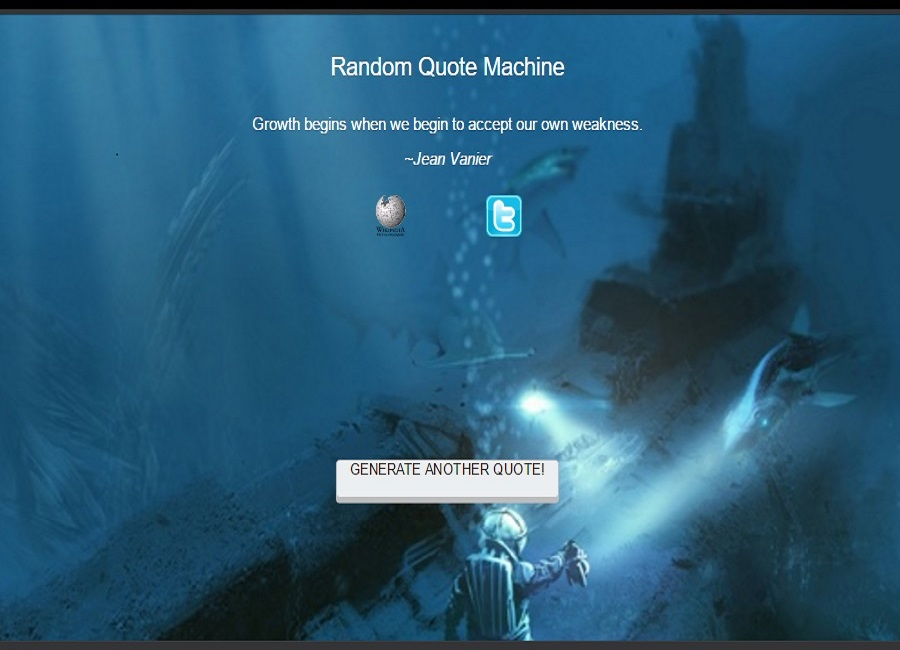
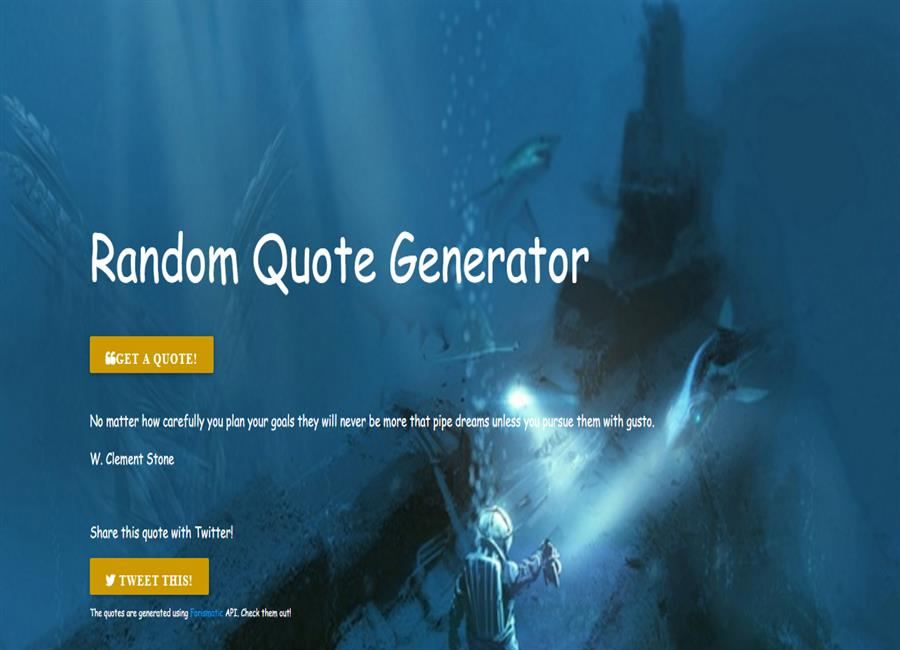
icansleep

diff --git a/RANDOMQUOTE/randomquote.html b/RANDOMQUOTE/randomquote.html
@@ -16,8 +16,8 @@
     <title>DmnSo RandomQuote</title>
 
     <!-- Bootstrap Core CSS -->
-    <link href="//maxcdn.bootstrapcdn.com/bootstrap/3.3.4/css/bootstrap.min.css" rel="stylesheet" />
-<link href="//cdnjs.cloudflare.com/ajax/libs/animate.css/3.2.3/animate.min.css" rel="stylesheet" />
+    <link href="//maxcdn.bootstrapcdn.com/bootstrap/3.3.5/css/bootstrap.min.css" rel="stylesheet" />
+<link href="http://netdna.bootstrapcdn.com/font-awesome/4.4.0/css/font-awesome.css" rel="stylesheet" />
 
     <!-- Theme CSS -->
     <link href="randomquote.css" rel="stylesheet">
@@ -28,23 +28,32 @@
 
 
 <body>
-  <div class='container-fluid'>
-    <div class='jumbotron' id="quote">
-      <h1>Random Quote Machine</h1>
-      <div class='box'>
-        <p class='quote'></p>
-        <i><p class='author'></p></i>
+  <section>
+    <div class="container-fluid">
+      <div class="col-md-12 text-center">
+        <h1 class="heading">Random Quote Generator</h1>
+
+        <button id="fetch" class="btn btn-primary fa fa-quote-left">Get a Quote!</button>
+        <div class="quoteArea">
+          <p><span class='Quote'></span></p>
+          <p><span class="Author"></span></p>
+        </div>
+
+
+        <p>Share this quote with Twitter!</p>
+        <a class="twitter-share" href="https://twitter.com/intent/tweet">
+          <button id="tweet" class="btn btn-primary fa fa-twitter"> Tweet this!</button>
+        </a>
       </div>
-      <div>
-        <button class="btn btn-primary btn-lg" id="generator">Generate Quote</button>
-      </div>
-      <p></p>
+
+      <p class="paragraph">The quotes are generated using <a href="http://forismatic.com/en/">Forismatic</a> API. Check them out!</p>
     </div>
-  </div>s
+    <section>
 
 <script src="//cdnjs.cloudflare.com/ajax/libs/jquery/2.1.3/jquery.min.js"></script>
 <script src="https://code.jquery.com/jquery-2.2.1.min.js"></script>
 <script src="randomquote.js"> </script>
 
+</body>
 
 </html>

diff --git a/RANDOMQUOTE/randomquote.js b/RANDOMQUOTE/randomquote.js
@@ -1,21 +1,22 @@
-$(document).ready(function() {
-  $('.box').hide();
-  $('#generator').click(function() {
-    $('.box').hide();
-    $('.quote').text("");
-    $('.author').text("");
-    $.ajax({
-      url: 'https://andruxnet-random-famous-quotes.p.mashape.com/',
-      type: "GET",
-      dataType: 'json',
-      success: function(data) {
-        $('.quote').text('"' + data.quote + '"');
-        $('.author').text('--' + data.author);
-        $('.box').addClass('animated fadeInLeft').show();
-      },
-      beforeSend: function(xhr) {
-        xhr.setRequestHeader("X-Mashape-Authorization", "k0yyUeZkPpmshDLnY9BD8bFhgm5mp15QiNXjsncA14OFYnCyOH")
-      }
-    })
-  })
+// Random Quote Generator
+
+var url = "http://api.forismatic.com/api/1.0/?method=getQuote&key=457653&format=jsonp&lang=en&jsonp=?";
+
+var fetchQuote = function(data){
+    if(data.quoteAuthor == ''){
+    data.quoteAuthor = 'Unknown Author';
+  }
+  $(".Author").text(data.quoteAuthor);
+  $(".Quote").text(data.quoteText);
+
+  var tweet = 'https://twitter.com/intent/tweet?text=' + data.quoteText + ' ' + data.quoteAuthor;
+
+  $(".twitter-share").attr("href", tweet);
+}
+$(document).ready(function(){
+   $.getJSON(url, fetchQuote, 'jsonp');
+});
+
+$("#fetch").click(function(){
+   $.getJSON(url, fetchQuote, 'jsonp')
 });

diff --git a/RANDOMQUOTE/randomquote.css b/RANDOMQUOTE/randomquote.css
@@ -1,11 +1,3 @@
-#quote {
-  text-align: center;
-}
-
-h1 {
-  color: white;
-}
-
 body
     {
     width: 100%;
@@ -20,22 +12,45 @@ body
   flex-direction: column;
 }
 
-.jumbotron {
-  width: 100%;
-  height: 100%;
-  position: absolute;
-  top: 0px;
-  left: 0px;
-  background-position: 50% 0%!important;
+.container-fluid{
+  font-family: cursive, sans-serif;
+  margin-left: 10%;
+  margin-right: 10%;
+  padding-top: 200px;
 }
 
-.box {
-  margin-bottom: 15px;
-  background-color: white;
-  padding-top: 10px;
-  border: 1px solid black;
-  border-radius: 25px;
-  -webkit-box-shadow: -5px 10px 5px 0px rgba(0, 0, 0, 0.75);
-  -moz-box-shadow: -5px 10px 5px 0px rgba(0, 0, 0, 0.75);
-  box-shadow: -5px 10px 5px 0px rgba(0, 0, 0, 0.75);
+.heading{
+ padding-bottom: 20px;
+}
+
+.paragraph{
+  font-size: 10px;
+  padding-bottom: 20px;
+}
+
+.quoteArea{
+  padding-bottom: 20px;
+  padding-top: 20px;
+}
+
+.btn {
+    padding: 14px 24px;
+    border: 0 none;
+    font-weight: 700;
+    letter-spacing: 1px;
+    text-transform: uppercase;
+}
+
+.btn:focus, .btn:active:focus, .btn.active:focus {
+    outline: 0 none;
+}
+
+.btn-primary {
+    background: #cc9900;
+    color: #ffffff;
+}
+
+.btn-primary:active, .btn-primary.active {
+    background: #007299;
+    box-shadow: none;
 }

diff --git a/index.html b/index.html
@@ -113,7 +113,7 @@
                                 Random Quote Generator
                             </div>
                         </div>
-                        <img src="img/portfolio/randomgener.png" class="img-responsive" alt="">
+                        <img src="img/portfolio/randomgener.jpg" class="img-responsive" alt="">
                     </a>
                 </div>
                 <div class="col-sm-4 portfolio-item">
@@ -351,7 +351,7 @@
                             <h2>Random Quote Generator</h2>
                             <hr class="star-primary">
                             <a href="RANDOMQUOTE/randomquote.html" target="_blank">
-                            <img src="img/portfolio/randomgener.png" class="img-responsive img-centered" alt=""></a>
+                            <img src="img/portfolio/randomgener.jpg" class="img-responsive img-centered" alt=""></a>
                             <p> A basic random quote generating application. Find yourself a new quote through the click of a single button! <a href="http://dongminseo.me/RANDOMQUOTE/randomquote.html">Random Quote Generator</a>.</p>
                             <ul class="list-inline item-details">
                                 <li>Client:

diff --git a/WEATHERTEST/weathertest.html b/WEATHERTEST/weathertest.html
@@ -2,7 +2,7 @@
 <html lang="en">
 
 <head>
-  <title>DmnSO-WeatherTest</title>
+  <title>DmnSO WeatherTest</title>
   <meta property="og:locale" content="en_US">
   <meta property="og:type" content="website">
   <meta http-equiv="X-UA-Compatible" content="IE=edge">
@@ -19,7 +19,7 @@
     <meta name="description" content="">
     <meta name="author" content="">
 
-    
+
 
     <!-- Bootstrap Core CSS -->
     <link href="../vendor/bootstrap/css/bootstrap.min.css" rel="stylesheet">

diff --git a/TICTACTOE/tictactoe.html b/TICTACTOE/tictactoe.html
@@ -1,7 +1,7 @@
 <html lang="en">
   <head>
     <meta charset="utf-8">
-    <title>Tic Tac Toe</title>
+    <title>DmnSo TicTacToe</title>
     <link href="tictactoe.css" media="screen" rel="stylesheet" type="text/css">
     <link href='http://fonts.googleapis.com/css?family=Lobster' rel='stylesheet' type='text/css'>
     <script src="http://code.jquery.com/jquery-latest.js"></script>

diff --git a/WIKIVIEW/wikiview.html b/WIKIVIEW/wikiview.html
@@ -3,7 +3,7 @@
 
   <head>
 
-    <title>DmnSo Wikipedia Viewer</title>
+    <title>DmnSo WikipediaViewer</title>
     <meta name="viewport" content="width=device-width, initial-scale=1, user-scalable=no">
     <meta charset="UTF-8">
     <link rel="stylesheet prefetch" type="text/css" href="bootstrap.min.css">
